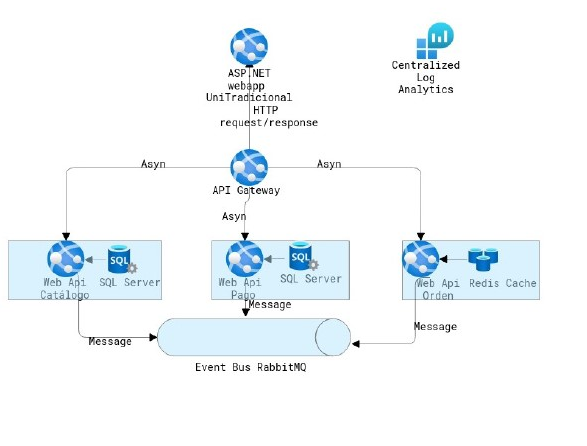
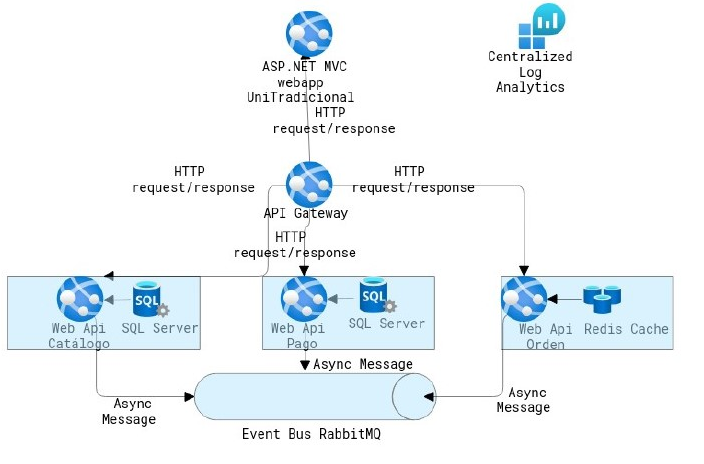
Añadiendo descripción de arquitectura

diff --git a/docs/ArquitecturaProyecto.md b/docs/ArquitecturaProyecto.md
@@ -12,8 +12,9 @@ Cada una de las características anteriores se administra con un microservicio d
 
 Esta arquitectura permite que cada microservicio implemente el almacén de datos que esté mejor optimizado para su carga de trabajo, necesidades de almacenamiento y patrones de lectura-escritura. Las opciones de almacenamiento de datos incluyen relacional y clave-valor.
 El servicio de catálogo al igual que el servicio de pago, almacenan sus datos en una base de datos SQL Server. El servicio de carrito de compra utiliza una cache de Redis para almacenamiento. No existe un único almacén de datos con el que interactúen todos los servicios. En cambio, la comunicación entre servicios se produce según sea necesario, ya sea a través de llamadas API de forma asíncrona y a través de mensajería. Este aislamiento de datos le da a cada servicio la autonomía para aplicar de forma independiente las actualizaciones del esquema de datos, sin romper otros servicios en el entorno de producción.
+También, utiliza un bus de eventos para mensajería asincrónica y comunicación basada en eventos, empleando para ello, el patrón de publicación / suscripción (comúnmente abreviado como pub-sub) que se usa con el bus de eventos. Cualquier servicio puede publicar un evento en el bus de eventos. Cada servicio es responsable de suscribirse a los mensajes relevantes para su dominio. 
 
-A continuación, el diagrama de arquitectura empleado
+A continuación, el diagrama de arquitectura empleado:
 ![Arquitectura](./img/Arquitectura.png)
 
 También existen requerimientos no funcionales para esta aplicación que justifican la elección de esta arquitectura basada en microservicios:
